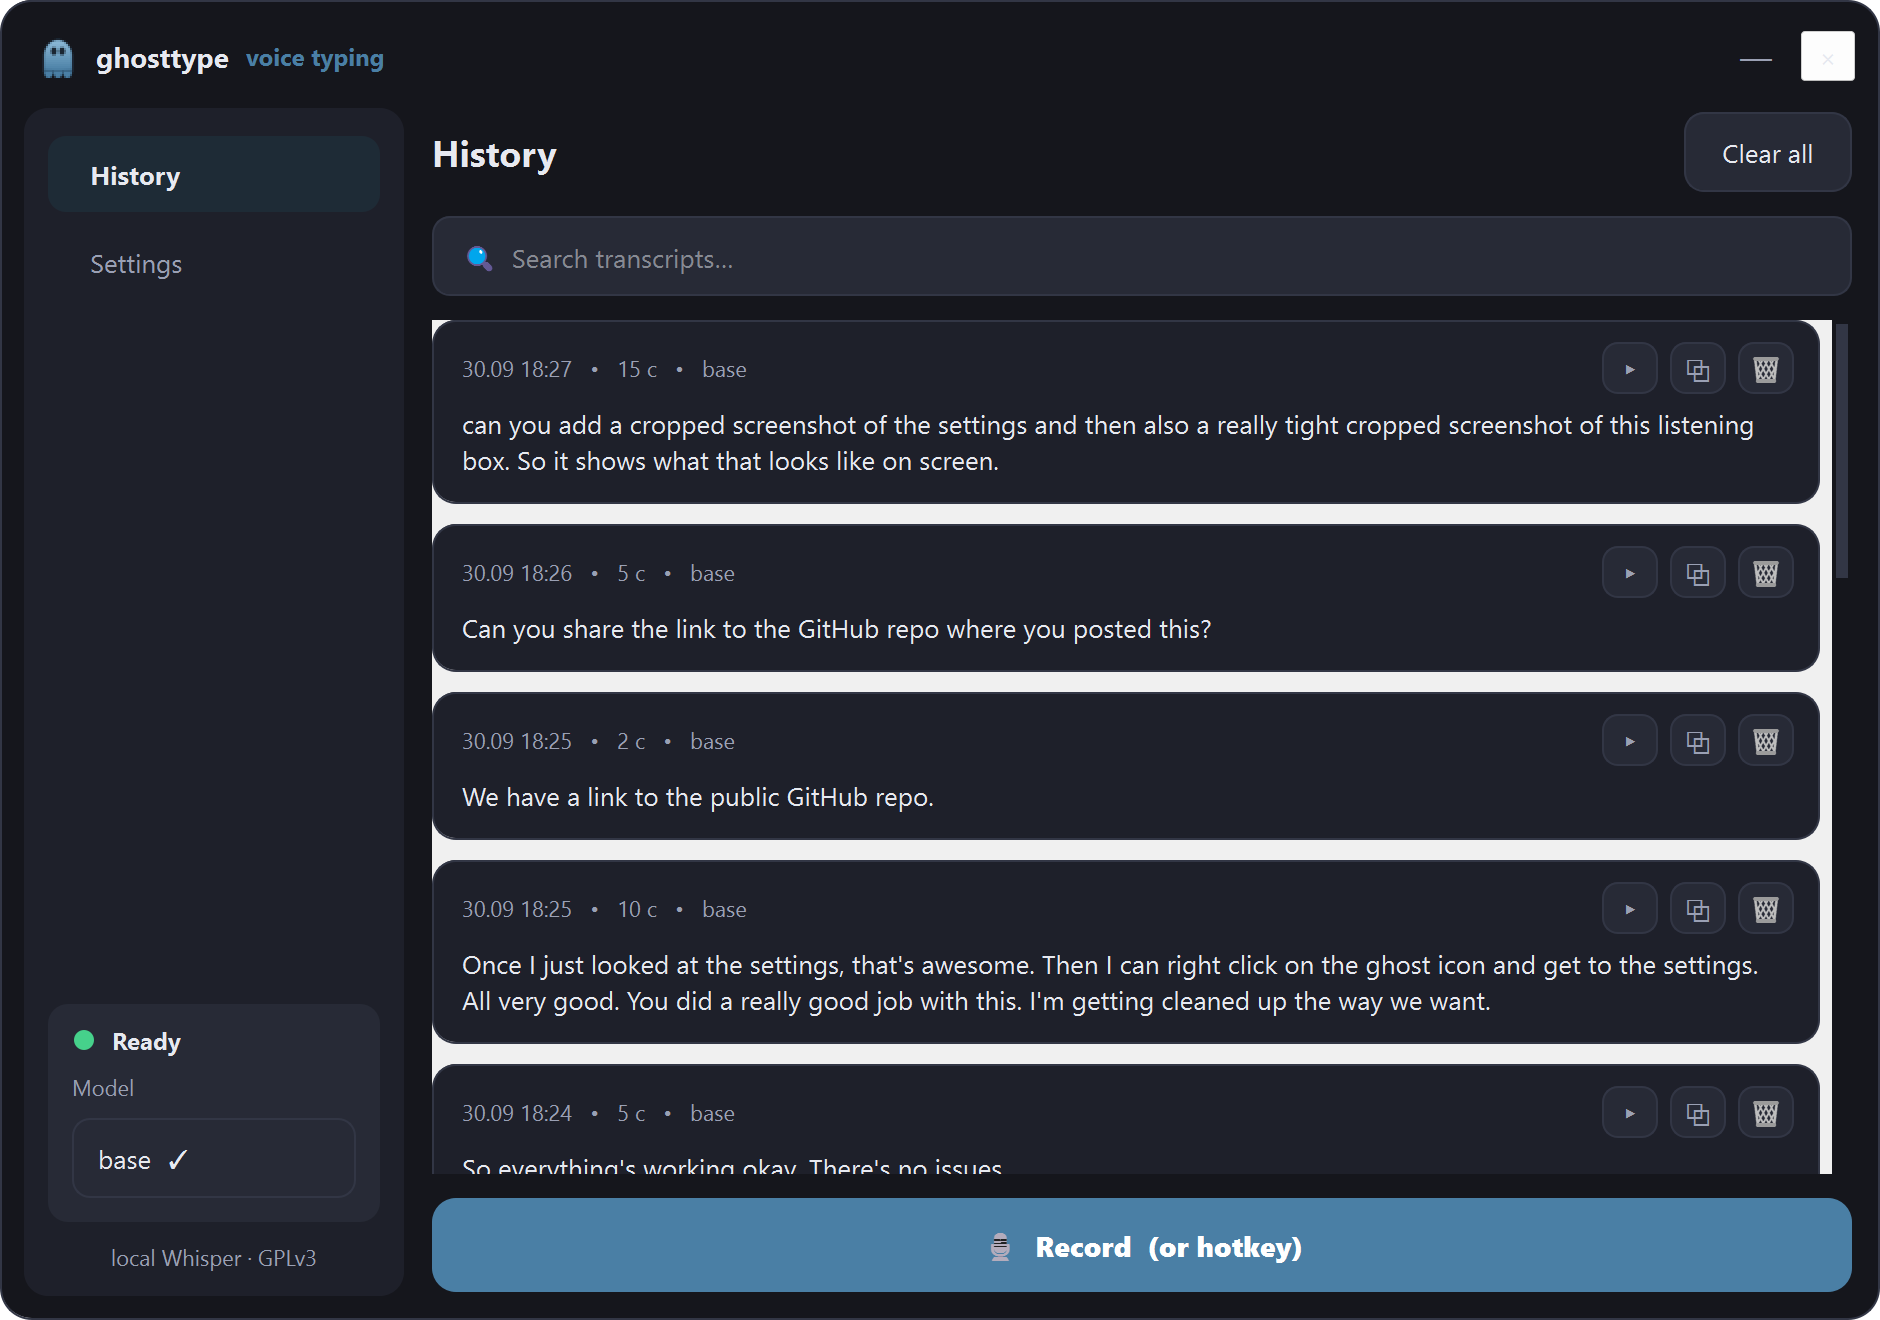
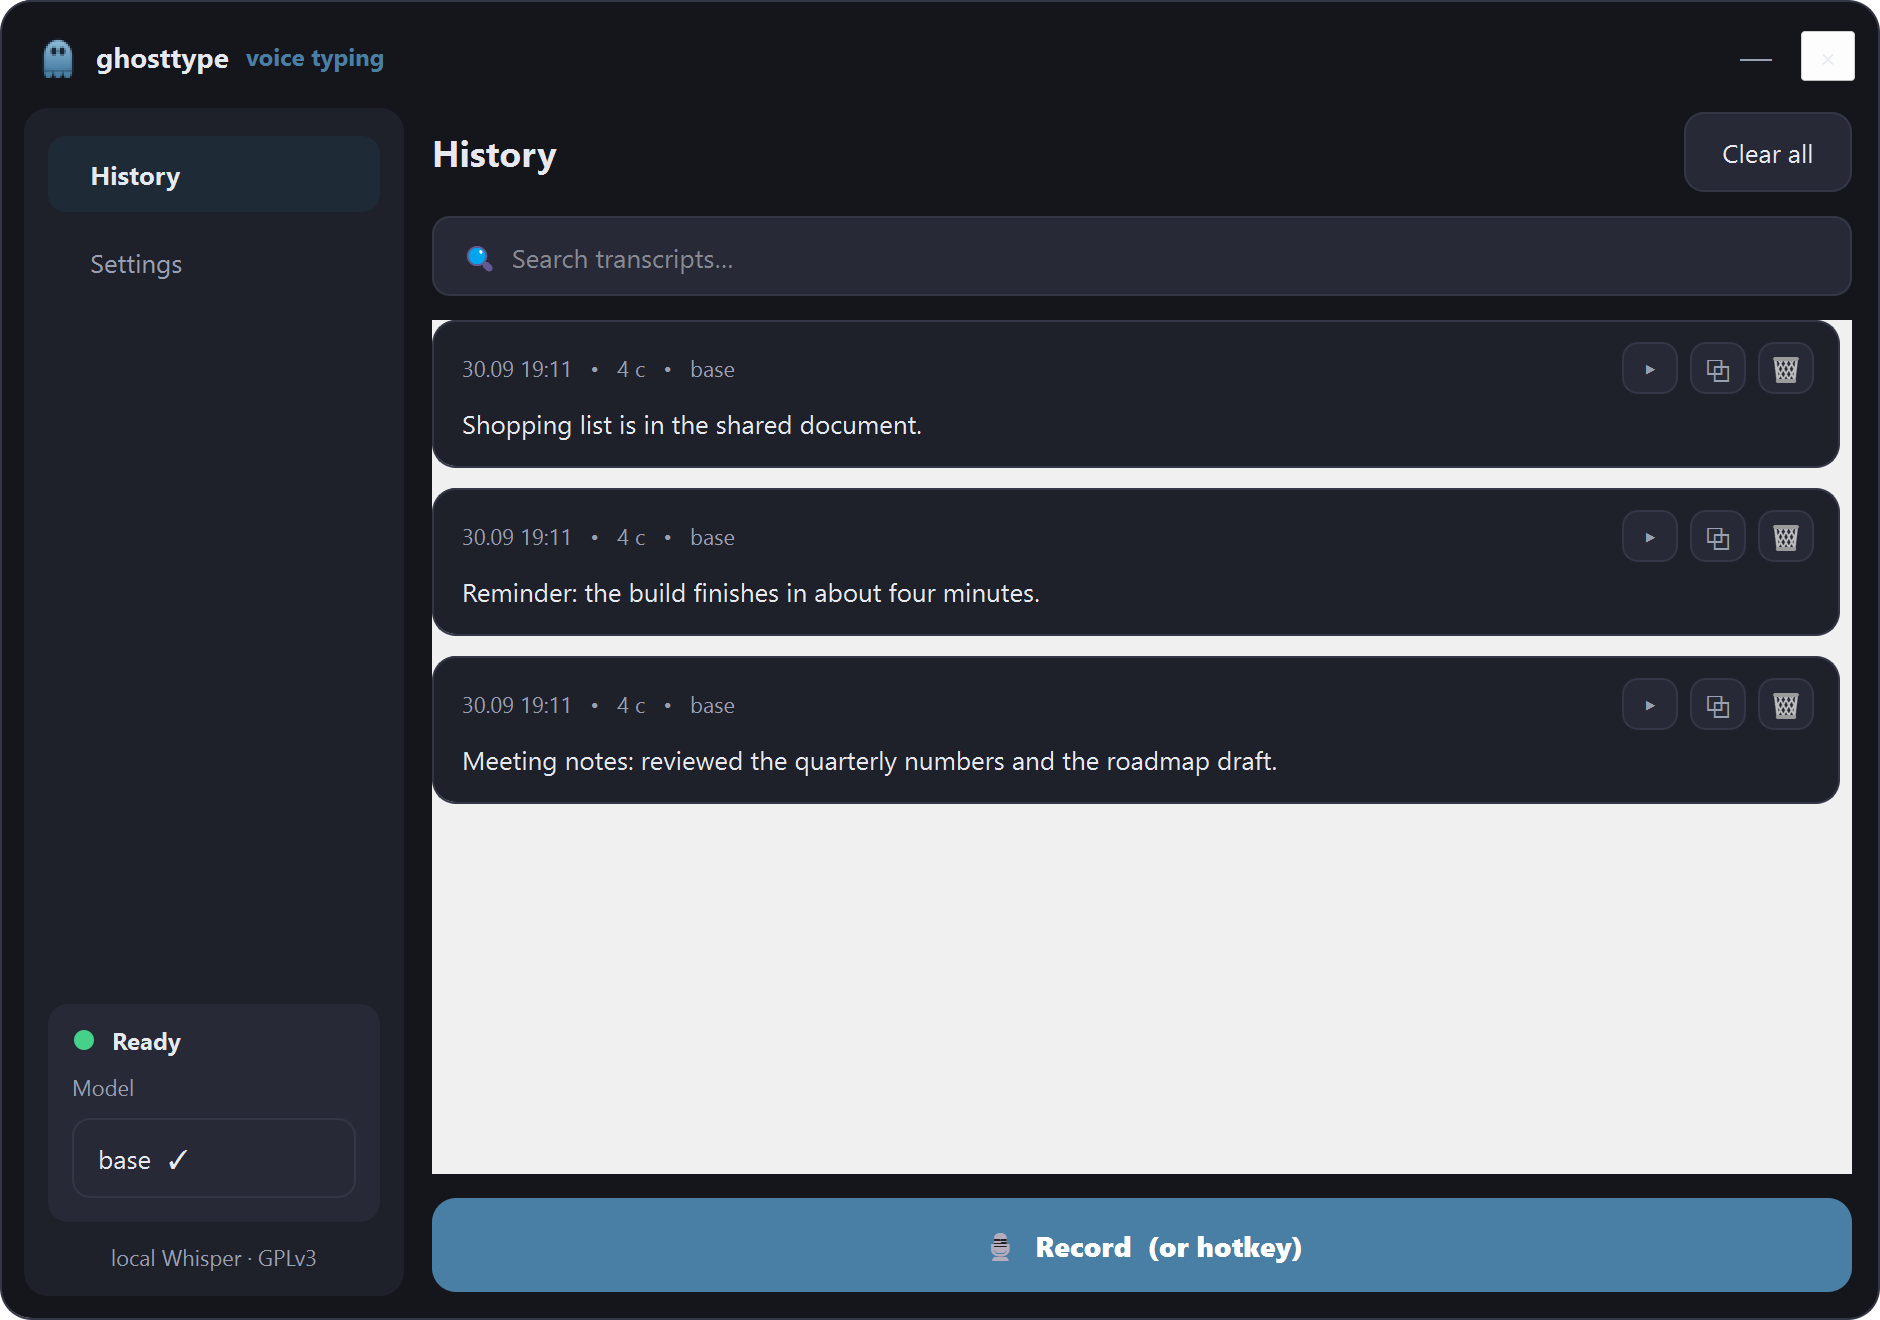
ghosttype: remove personal identifiers from public-facing files
The README named a specific laptop model when explaining the media-row / Fn
issue, and described a personal homelab and a specific Linux workflow. Replaced
with generic wording: 'most modern laptops'. Also dropped the author's name from
the fork attribution and de-personalised a few test-script docstrings.

More seriously, the generated History screenshot contained the maintainer's real
dictated transcriptions, because make_screenshots.py rendered the live history
store. It shipped in the previous commit. The generator now builds against a
throwaway SQLite file seeded with generic entries, and deletes it afterwards, so
the capture can never pick up real content again. HistoryStore opens its
database in the constructor, so the path has to be passed in rather than
reassigned afterwards.

Also fixed two docs bugs the screenshots surfaced: launch.vbs instructions
pointed at assets/ww-logo.ico, deleted in the ghost-icon change, and the
recording-modes list still marked continuous as the default when press_to_toggle
is now the default.

Changed region(s): [[0.216, 0.2174, 0.9872, 0.9008]]

diff --git a/make_screenshots.py b/make_screenshots.py
@@ -59,7 +59,14 @@ def save(widget, name):
 
 
 print('capturing Settings page...')
-dash = DashboardWindow(HistoryStore())
+# NOTE: build against a throwaway history DB, never the user's real one. A
+# screenshot of the History page populated from live transcriptions would publish
+# whatever the user happened to dictate. These captures ship in a public README.
+# HistoryStore opens the DB in its constructor, so the path must be passed in.
+_scratch_db = os.path.join(BASE, '_screenshot_history_scratch.db')
+_hist = HistoryStore(db_path=_scratch_db)
+
+dash = DashboardWindow(_hist)
 dash.show()
 settle()
 dash._switch_page(1)          # index 1 = Settings
@@ -87,7 +94,20 @@ if scroller is not None:
 # Also grab the History page — it shows the transcriptions from testing.
 dash._switch_page(0)
 settle(400)
+# Seed the throwaway DB with obviously-generic entries so the History shot shows
+# the feature without publishing anything real.
+for _txt in (
+    'Meeting notes: reviewed the quarterly numbers and the roadmap draft.',
+    'Reminder: the build finishes in about four minutes.',
+    'Shopping list is in the shared document.',
+):
+    _hist.add(_txt, 4.2, 'base')
+dash.refresh_history()
+settle(400)
 save(dash, 'screenshot-history.png')
+for _f in (_scratch_db,):
+    if os.path.exists(_f):
+        os.remove(_f)
 
 print('capturing recording indicator...')
 ind = StatusWindow()

diff --git a/repol_pynput_test.py b/repol_pynput_test.py
@@ -9,6 +9,8 @@ We do NOT need the Copilot key or package identity to test this: we run the
 built handler exe directly and have it inject F13, while a pynput listener
 watches for it. If the listener sees F13, the injection path is proven.
 
+Requires a built Repilot checkout beside this repo (see REPILOT_REPO).
+
 Config: %AppData%\\Repilot\\settings.json
   {"Action":{"Type":1,"Combo":{"Modifiers":0,"VirtualKey":124}}}   # 124 = VK_F13
 
@@ -23,7 +25,11 @@ import time
 
 from pynput import keyboard
 
-REPO = r"C:\Users\gregd\work\Repilot"
+# Resolve the Repilot checkout relative to this script's parent dir, so the test
+# is not tied to one machine's home directory. Override with REPILOT_REPO.
+DEFAULT_REPO = os.path.join(
+    os.path.dirname(os.path.dirname(os.path.abspath(__file__))), 'Repilot')
+REPO = os.environ.get('REPILOT_REPO', DEFAULT_REPO)
 EXE = os.path.join(
     REPO, 'RepilotKey', 'bin', 'x64', 'Release',
     'net10.0-windows10.0.22000.0', 'win-x64', 'publish', 'RepilotKey.exe')

diff --git a/hotkey_test.py b/hotkey_test.py
@@ -1,8 +1,8 @@
 """Interactive hotkey tester — press a key, see whether ghosttype can bind it.
 
-The F-row on a Dell XPS 16 is dual-purpose: the top row is the media row by
-default, so "F9" is really Fn+F9 and the F-keys need the Fn key held. That makes
-them a bad push-to-talk. This tool prints, live, exactly what ghosttype's
+On most modern laptops the F-row is dual-purpose: the top row is the media row
+by default, so "F9" is really Fn+F9 and the F-keys need the Fn key held. That
+makes them a poor push-to-talk key. This tool prints, live, exactly what ghosttype's
 key_listener would bind for whatever you press — including keys the Fn row
 cannot reach cleanly.
 

diff --git a/hidpi_test.py b/hidpi_test.py
@@ -1,8 +1,8 @@
 """HiDPI verification: prove the dashboard actually renders at 2x, not just that
 the Qt attribute got set.
 
-AA_EnableHighDpiScaling makes Qt scale the whole UI. We assert on the thing Greg
-actually complained about: a QLabel's rendered height in logical px must be
+AA_EnableHighDpiScaling makes Qt scale the whole UI. We assert on the thing
+that actually matters: a QLabel's rendered height in logical px must be
 noticeably larger than the same font at unscaled 1x. We build both a scaled and
 an unscaled label and compare.
 

diff --git a/smoke_test_model.py b/smoke_test_model.py
@@ -1,7 +1,7 @@
 """Deep smoke test: prove run.py's preload order yields a USABLE model.
 
 smoke_test.py only checks that imports succeed. It cannot catch the two failure
-modes that actually bite on xps16:
+modes that actually bite on Windows:
   1. ctranslate2/PyQt5 DLL conflict -> segfault when the model loads after Qt
   2. an inherited PYTHONPATH pointing at another env's site-packages
 
